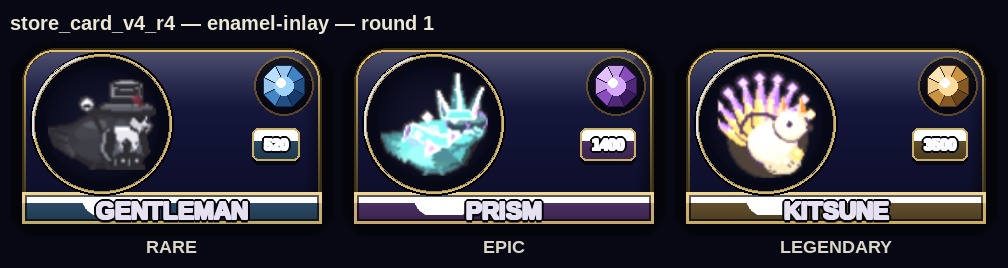
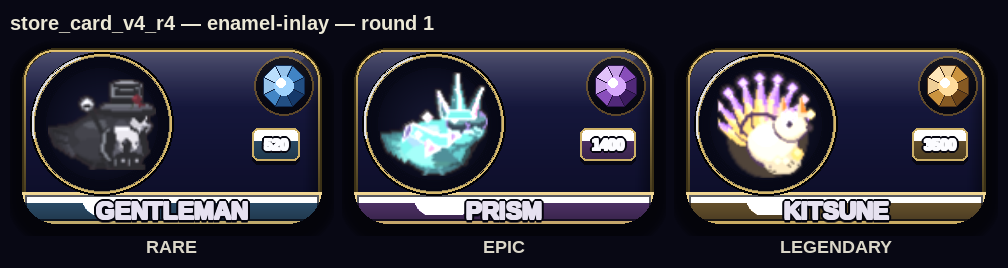
store_card_v4_r4 enamel-inlay round 1
Claude-Session: https://claude.ai/code/session_011726ot8uBSmurQVaEkGY6K

diff --git a/tools/_store_card_v4_r4_enamel_inlay_r1.py b/tools/_store_card_v4_r4_enamel_inlay_r1.py
@@ -67,11 +67,13 @@ def _enamel_band(big, rect, plinth_top, rad, pal):
     bh = rect.bottom - plinth_top
 
     # Rounded-bottom mask matching the card's lower corners so the poured
-    # enamel seats flush into the shell rather than overrunning the radius.
+    # enamel — and its bright metal wall — seat flush into the shell rather than
+    # nubbing square corners past the card's radius.  The full card rect is
+    # shifted up so its rounded bottom aligns with the band's bottom row.
+    moff = rect.y - plinth_top
     body_mask = pygame.Surface((bw, bh), pygame.SRCALPHA)
     pygame.draw.rect(body_mask, (255, 255, 255, 255),
-                     (0, plinth_top - rect.bottom, bw, rect.h),
-                     border_radius=rad)
+                     (0, moff, bw, rect.h), border_radius=rad)
 
     # Deep vitreous jewel fill.
     fill = vgrad_stops(bw, bh, 0, _enamel_stops(pal), 255, gamma=1.05)
@@ -97,8 +99,7 @@ def _enamel_band(big, rect, plinth_top, rad, pal):
     spec = pygame.transform.smoothscale(spec, (bw, int(bh * 0.72)))
     smask = pygame.Surface(spec.get_size(), pygame.SRCALPHA)
     pygame.draw.rect(smask, (255, 255, 255, 255),
-                     (0, plinth_top - rect.bottom, bw, rect.h),
-                     border_radius=rad)
+                     (0, moff, bw, rect.h), border_radius=rad)
     spec.blit(smask, (0, 0), special_flags=pygame.BLEND_RGBA_MIN)
     big.blit(spec, (bx, by), special_flags=pygame.BLEND_ADD)
 
